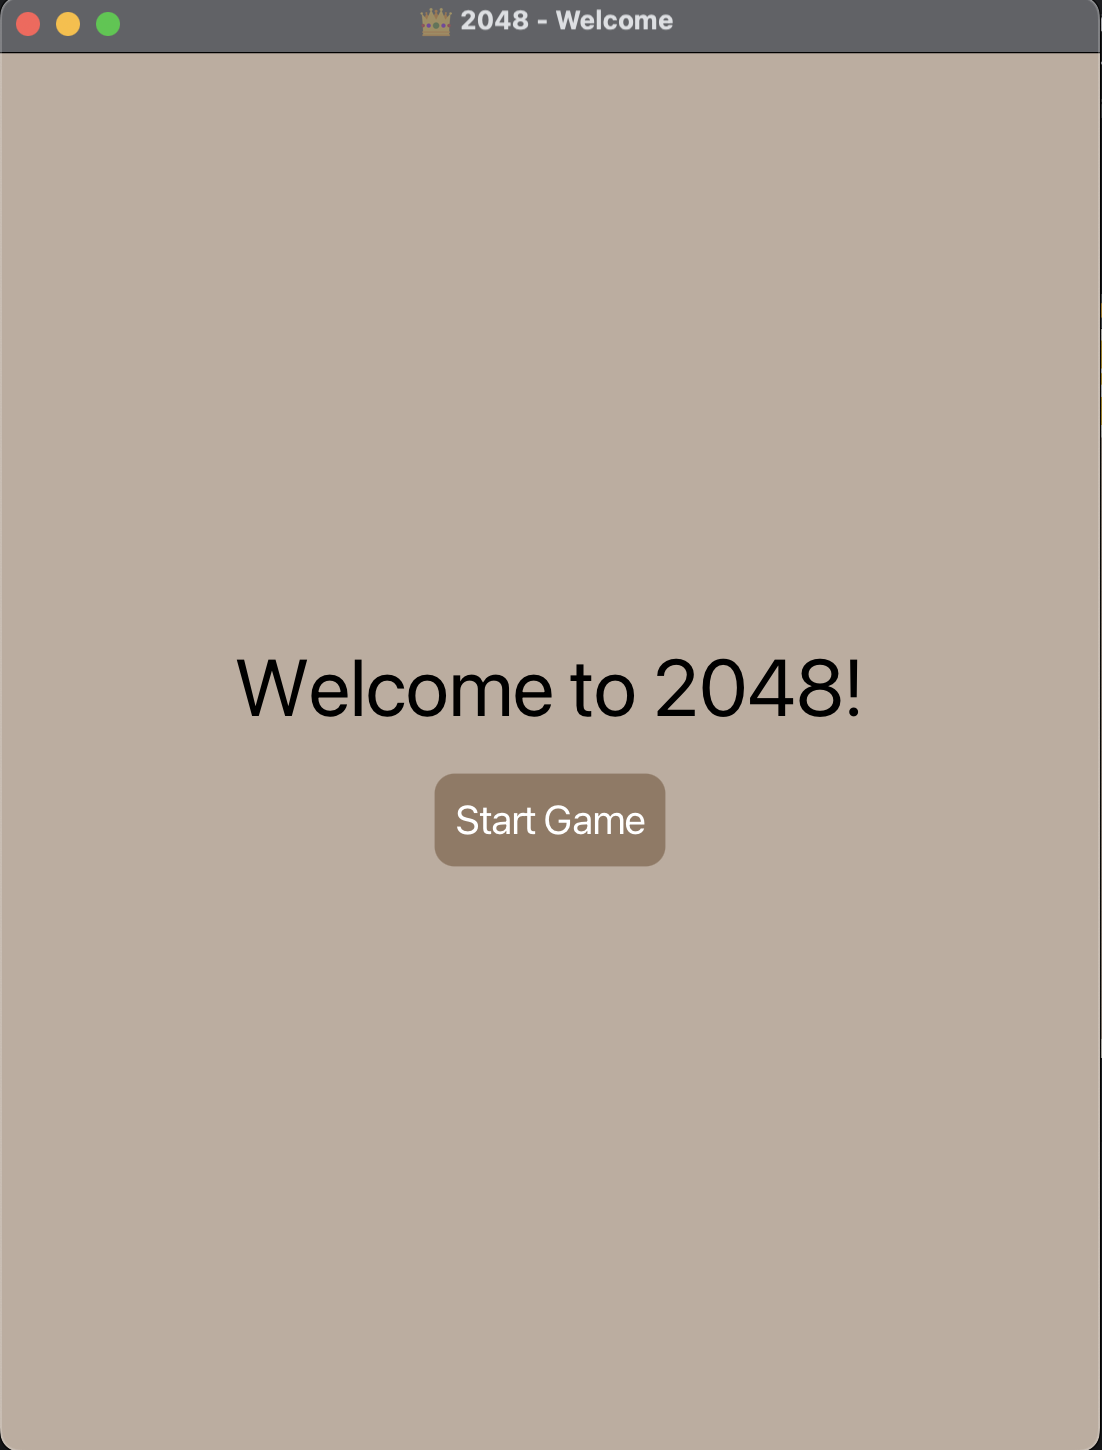
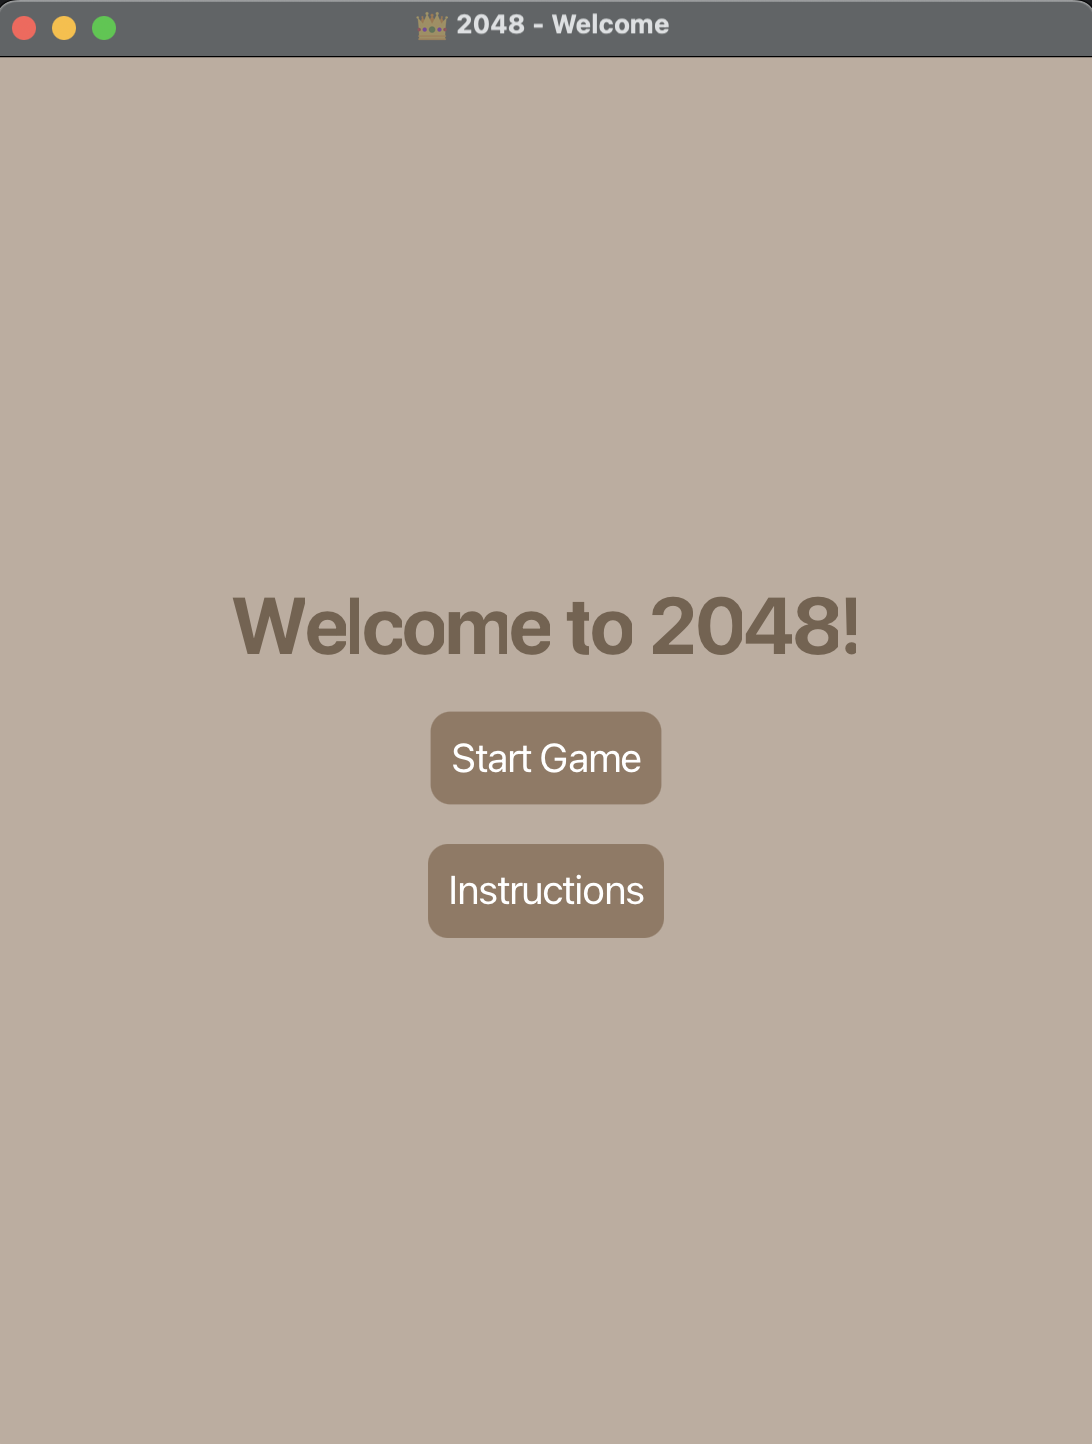
Final: Game working

Changed region(s): [[0.2179, 0.4051, 0.8095, 0.6544], [0.0, 0.0, 1.0, 1.0], [0.0, 0.9972, 0.0311, 1.0]]

diff --git a/README.md b/README.md
@@ -61,6 +61,12 @@ The 2048 game is a single-player sliding block puzzle game where the player comb
   <img src="img/ui.png" alt="2048 Game in JavaFX" width="70%" style="border-radius: 8px">
 </p>
 
+### Instructions Interface
+
+<p align="center">
+  <img src="img/instructions.png" alt="2048 Game in JavaFX" width="70%" style="border-radius: 8px">
+</p>
+
 ## Gameplay
 
 ### Objective
